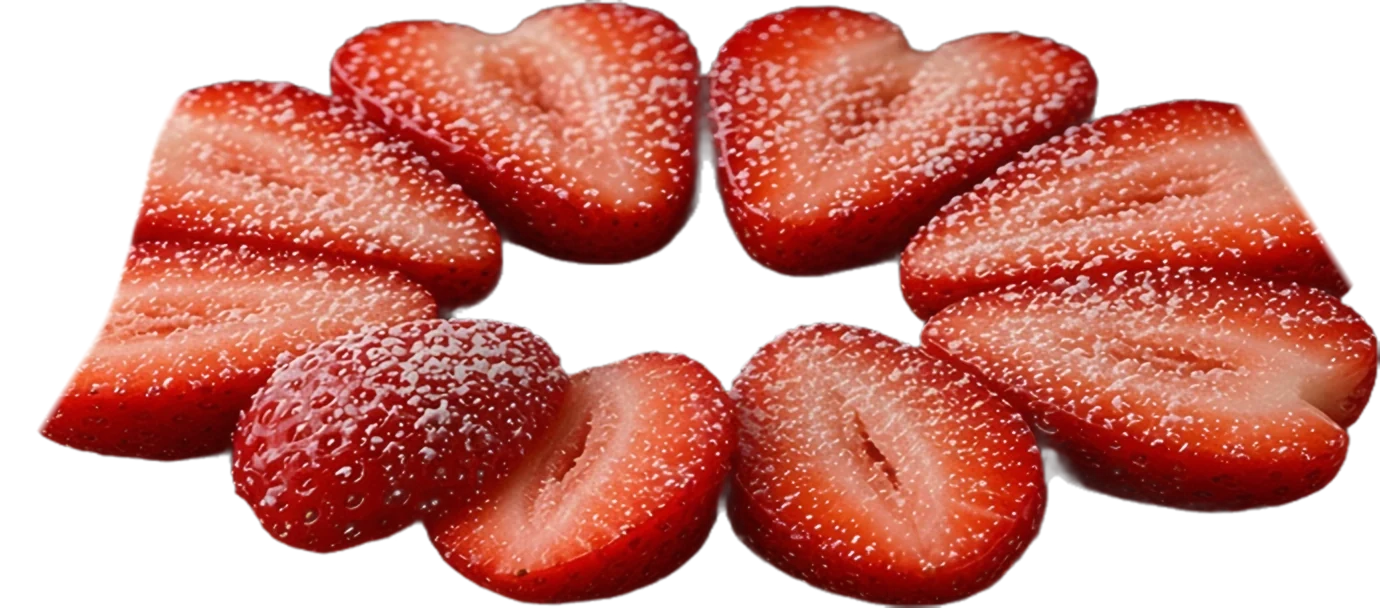
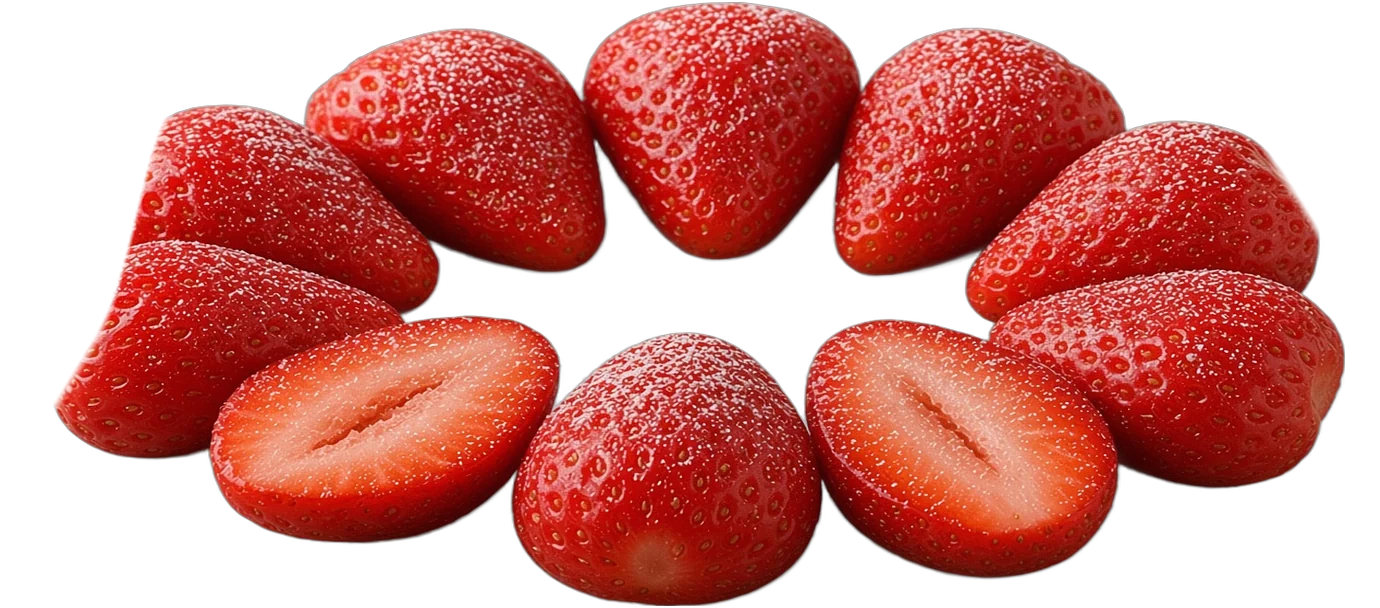
v9: whole-berry layer + matching closed photo, keep floating extras on screen, bigger landing donut with retimed slices/sheen/flash handoff

diff --git a/index.html b/index.html
@@ -640,7 +640,7 @@ nav.nav .nav-order-mobile{display:none !important}
 .bl-slash{width:60%;height:3px;border-radius:3px;background:linear-gradient(90deg,rgba(255,255,255,0),#fff 40%,rgba(255,255,255,.9) 60%,rgba(255,255,255,0));box-shadow:0 0 12px 2px rgba(255,250,235,.8);transform-origin:left center}
 .bl-flash{width:100%;height:100%;background:radial-gradient(closest-side,rgba(255,250,238,.95),rgba(255,240,214,.55) 60%,rgba(255,240,214,.15));mix-blend-mode:screen;-webkit-mask-image:url(/images/layers/il-donut.webp);mask-image:url(/images/layers/il-donut.webp);-webkit-mask-size:100% 100%;mask-size:100% 100%}
 .bl-sheen{width:100%;height:100%;overflow:hidden;-webkit-mask-image:url(/images/layers/il-donut.webp);mask-image:url(/images/layers/il-donut.webp);-webkit-mask-size:100% 100%;mask-size:100% 100%}
-.bl-sheen i{position:absolute;top:-20%;bottom:-20%;left:0;width:34%;background:linear-gradient(100deg,rgba(255,255,255,0),rgba(255,250,235,.85),rgba(255,255,255,0));transform:translateX(var(--sx,-120%)) skewX(-14deg)}
+.bl-sheen i{position:absolute;top:-20%;bottom:-20%;left:0;width:34%;background:linear-gradient(100deg,rgba(255,255,255,0),rgba(255,246,228,.42),rgba(255,255,255,0));transform:translateX(var(--sx,-120%)) skewX(-14deg)}
 .bl-chip{position:absolute;left:50%;bottom:-24%;top:auto;transform:translateX(-50%);white-space:nowrap;font-size:10px;font-weight:700;letter-spacing:.22em;text-transform:uppercase;color:var(--orange-on-dark);opacity:0}
 /* floating parts */
 .bl-parts{position:absolute;inset:0;pointer-events:none;z-index:0}
@@ -2120,11 +2120,14 @@ a,button,input,select,textarea,label,summary,[role=button],[onclick]{touch-actio
   var lerp = function(a, b, t){ return a + (b - a) * t; };
 
   var LMIN = 6, LMAX = 0, YS = {}, berFull = $('blBerFull'), TX = {}, TY = {}, LB = {}, CW = {}, VISW = 0, VISH = 0, DOX = 0, DOY = 0, GCAP = [0.9, 1, 0.86, 0.94, 1];
-  var circ0 = 'none', NW = 0, NH = 0, SLW = [], SLH = [], storyOn = true;
+  var circ0 = 'none', DS = 1, NW = 0, NH = 0, SLW = [], SLH = [], storyOn = true;
   var W, H, VW, top0, span, cx, cy, maxR, flipAt = [], stripMax = 0, mobile;
   function measure(){
     mobile = window.innerWidth <= 860;
     NW = sbox.offsetWidth; NH = sbox.offsetHeight;
+    /* the landing donut matches the size of the layered donut: near full width on phones, big on desktop */
+    var dvw = stage.clientWidth, dvh = stage.clientHeight, DW = mobile ? 0.94 * dvw : Math.min(0.45 * dvw, 840);
+    DW = Math.min(DW, (mobile ? 0.4 : 0.6) * dvh * 1043 / 704); DS = NW ? Math.max(1, DW / NW) : 1;
     for (var q = 0; q < SLS.length; q++){ var im = SLS[q].querySelector('img'); SLW[q] = SLS[q].offsetWidth; SLH[q] = SLW[q] * im.getAttribute('height') / im.getAttribute('width'); }
     W = donut.offsetWidth; H = donut.offsetHeight;
     top0 = sec.getBoundingClientRect().top + (window.scrollY || window.pageYOffset);
@@ -2140,6 +2143,21 @@ a,button,input,select,textarea,label,summary,[role=button],[onclick]{touch-actio
     var vis = donut.parentNode, vcs = getComputedStyle(vis);
     VISW = vis.clientWidth - parseFloat(vcs.paddingRight) * 0; VISH = vis.clientHeight;
     DOX = donut.offsetLeft; DOY = donut.offsetTop;
+    /* keep the floating extras fully on screen: clamp each base position inside a safe margin (drift + rotation included) */
+    var pc = sec.querySelector('.bl-parts');
+    if (pc){
+      var pr0 = pc.getBoundingClientRect(), sr0 = stage.getBoundingClientRect(), pr = { left: pr0.left - sr0.left, top: pr0.top - sr0.top, width: pr0.width, height: pr0.height }, vw = stage.clientWidth, Mg = mobile ? 16 : 28;
+      var hdr = (document.getElementById('nav') || {offsetHeight:0}).offsetHeight || 0;
+      parts.forEach(function(el){
+        var z = +el.getAttribute('data-z'), w = el.offsetWidth, h = el.offsetHeight || w;
+        var dr = 8 * z + 18 * z + w * 0.22 + 6, dv = 10 * z + 40 * z + h * 0.22 + 6;
+        var bx = parseFloat(el.getAttribute('data-x')) / 100 * pr.width, by = parseFloat(el.getAttribute('data-y')) / 100 * pr.height;
+        var minX = Math.max(0, Mg - pr.left) + dr, maxX = Math.min(pr.width, vw - Mg - pr.left) - w - dr;
+        var minY = Math.max(0, hdr + Mg - pr.top) + dv, maxY = Math.min(pr.height, stage.clientHeight - Mg - pr.top - 24) - h - dv;
+        el.style.left = Math.round(Math.max(minX, Math.min(maxX, bx))) + 'px';
+        el.style.top = Math.round(Math.max(minY, Math.min(maxY, by))) + 'px';
+      });
+    }
     var aw = vis.clientWidth - parseFloat(vcs.paddingLeft) - parseFloat(vcs.paddingRight), ah = vis.clientHeight - parseFloat(vcs.paddingTop) - parseFloat(vcs.paddingBottom);
     var vr = vis.getBoundingClientRect(), textRight = 0;
     sec.querySelectorAll('.bl-slide').forEach(function(sl){
@@ -2416,33 +2434,33 @@ a,button,input,select,textarea,label,summary,[role=button],[onclick]{touch-actio
         put(JUICE[ji], jx0 + Math.cos(ja) * jv * jj, jy0 + Math.sin(ja) * jv * jj + 0.55 * NH * jj * jj, ji * 40 + jj * 90, 0.6 + 0.5 * jj, bell(jj, 0, 0.08, 0.6, 1) * (inStory ? 1 : 0));
       }
       /* donut (drawn) rises in on the way to the landing */
-      var dIn = expo(clamp((u6 - 0.12) / 0.3));
-      var hand = io(clamp((u6 - 0.8) / 0.16));    /* drawn -> real */
+      var dIn = expo(clamp((u6 - 0.08) / 0.26));
+      var hand = io(clamp((u6 - 0.8) / 0.08));   /* drawn -> real, hidden under the flash peak */
       var real7 = 1 - io(clamp(u7 * 1.6));         /* real photo leaves for the flavours */
-      SP.illu.style.opacity = (dIn * (1 - hand)).toFixed(3);
-      var dT = 'translate3d(0,' + ((1 - dIn) * 0.45 * NH - (1 - real7) * 0.25 * NH + Math.sin(now / 1700) * 0.005 * NH).toFixed(1) + 'px,0) scale(' + (0.92 + 0.08 * dIn - (1 - real7) * 0.1).toFixed(4) + ')';
+      SP.illu.style.opacity = (clamp(dIn * 2.2) * (1 - hand)).toFixed(3);
+      var dT = 'translate3d(0,' + ((1 - dIn) * 0.45 * NH - (1 - real7) * 0.25 * NH + Math.sin(now / 1700) * 0.005 * NH).toFixed(1) + 'px,0) scale(' + ((0.92 + 0.08 * dIn - (1 - real7) * 0.1) * DS).toFixed(4) + ')';
       SP.illu.style.transform = dT; SP.realn.style.transform = dT; SP.sheen.style.transform = dT; SP.flash.style.transform = dT; SP.gnd.style.transform = dT;
       SP.realn.style.opacity = (hand * real7).toFixed(3);
       SP.gnd.style.opacity = (dIn * real7 * 0.9).toFixed(3);
-      var sh = clamp((u6 - 0.7) / 0.18);
+      var sh = clamp((u6 - 0.64) / 0.15);
       SP.sheen.style.opacity = (sh > 0 && sh < 1 ? 1 : 0) * (1 - hand);
       SP.sheen.firstChild.style.setProperty('--sx', (-120 + sh * 420).toFixed(1) + '%');
-      var fl = Math.sin(Math.PI * clamp((u6 - 0.8) / 0.16));
-      SP.flash.style.opacity = (fl * 0.42).toFixed(3);
+      var fl = Math.sin(Math.PI * clamp((u6 - 0.76) / 0.16));
+      SP.flash.style.opacity = (fl * 0.5).toFixed(3);
       SP.chip.style.opacity = (clamp((u6 - 0.95) / 0.05) * real7).toFixed(3);
       SP.chip.style.transform = 'translate(-50%,' + ((1 - clamp((u6 - 0.95) / 0.05)) * 10).toFixed(1) + 'px)';
       /* slices: out of the berry, fan into a row, then fly onto the donut one by one */
       for (var si = 0; si < SLS.length; si++){
         var se = SLS[si], sw = SLW[si], shh = SLH[si];
-        var tx = +se.getAttribute('data-x') * NW - sw / 2, ty = +se.getAttribute('data-y') * NH - shh / 2, tr = +se.getAttribute('data-r');
+        var tx = NW / 2 + (+se.getAttribute('data-x') - 0.5) * NW * DS - sw / 2, ty = NH / 2 + (+se.getAttribute('data-y') - 0.5) * NH * DS - shh / 2, tr = +se.getAttribute('data-r');
         var RY = [0, 0.05, -0.025, 0.07, 0.012, 0.04], RR = [-14, 9, -4, 16, -10, 6], RS = [1, 0.94, 1.06, 0.97, 1.02, 0.95];
         var rx = (0.09 + si * 0.164) * NW - sw / 2, ry = (0.22 + RY[si]) * NH, rr = RR[si] + Math.sin(now / 1500 + si * 1.7) * 3;
         var fan = io(clamp((u5 - 0.84 - si * 0.012) / 0.15));
-        var e = clamp((u6 - 0.3 - si * 0.065) / 0.2), mv = io(clamp(e / 0.8)), spp = clamp((e - 0.8) / 0.2);
+        var e = clamp((u6 - 0.2 - si * 0.05) / 0.17), mv = io(clamp(e / 0.8)), spp = clamp((e - 0.8) / 0.2);
         var x0 = lerp(cx2 - sw / 2, rx, fan), y0 = lerp(cy2 - shh / 2 - BH * 0.05, ry, fan) - Math.sin(Math.PI * fan) * 0.08 * NH, r0 = lerp((si - 2.5) * 12, rr, fan);
         var bounce = -0.04 * NH * Math.sin(spp * Math.PI) * (1 - spp * 0.4);
         var X = lerp(x0, tx, mv), Y = lerp(y0 + Math.sin(now / 1300 + si) * 4 * (1 - mv), ty, mv) - 0.35 * NH * Math.sin(Math.PI * mv) + bounce;
-        var sq = 1 - 0.07 * Math.sin(spp * Math.PI), scl = lerp((0.3 + 0.7 * fan) * RS[si], 0.92, mv);
+        var sq = 1 - 0.07 * Math.sin(spp * Math.PI), scl = lerp((0.3 + 0.7 * fan) * RS[si], 1.04 * DS, mv);
         put(se, X, Y, lerp(r0, tr, mv), scl, clamp((u5 - 0.84 - si * 0.012) / 0.03) * (1 - hand), scl * sq);
         /* a small contact shadow appears under each slice as it lands */
         var so = clamp((mv - 0.6) / 0.4) * (1 - hand);
